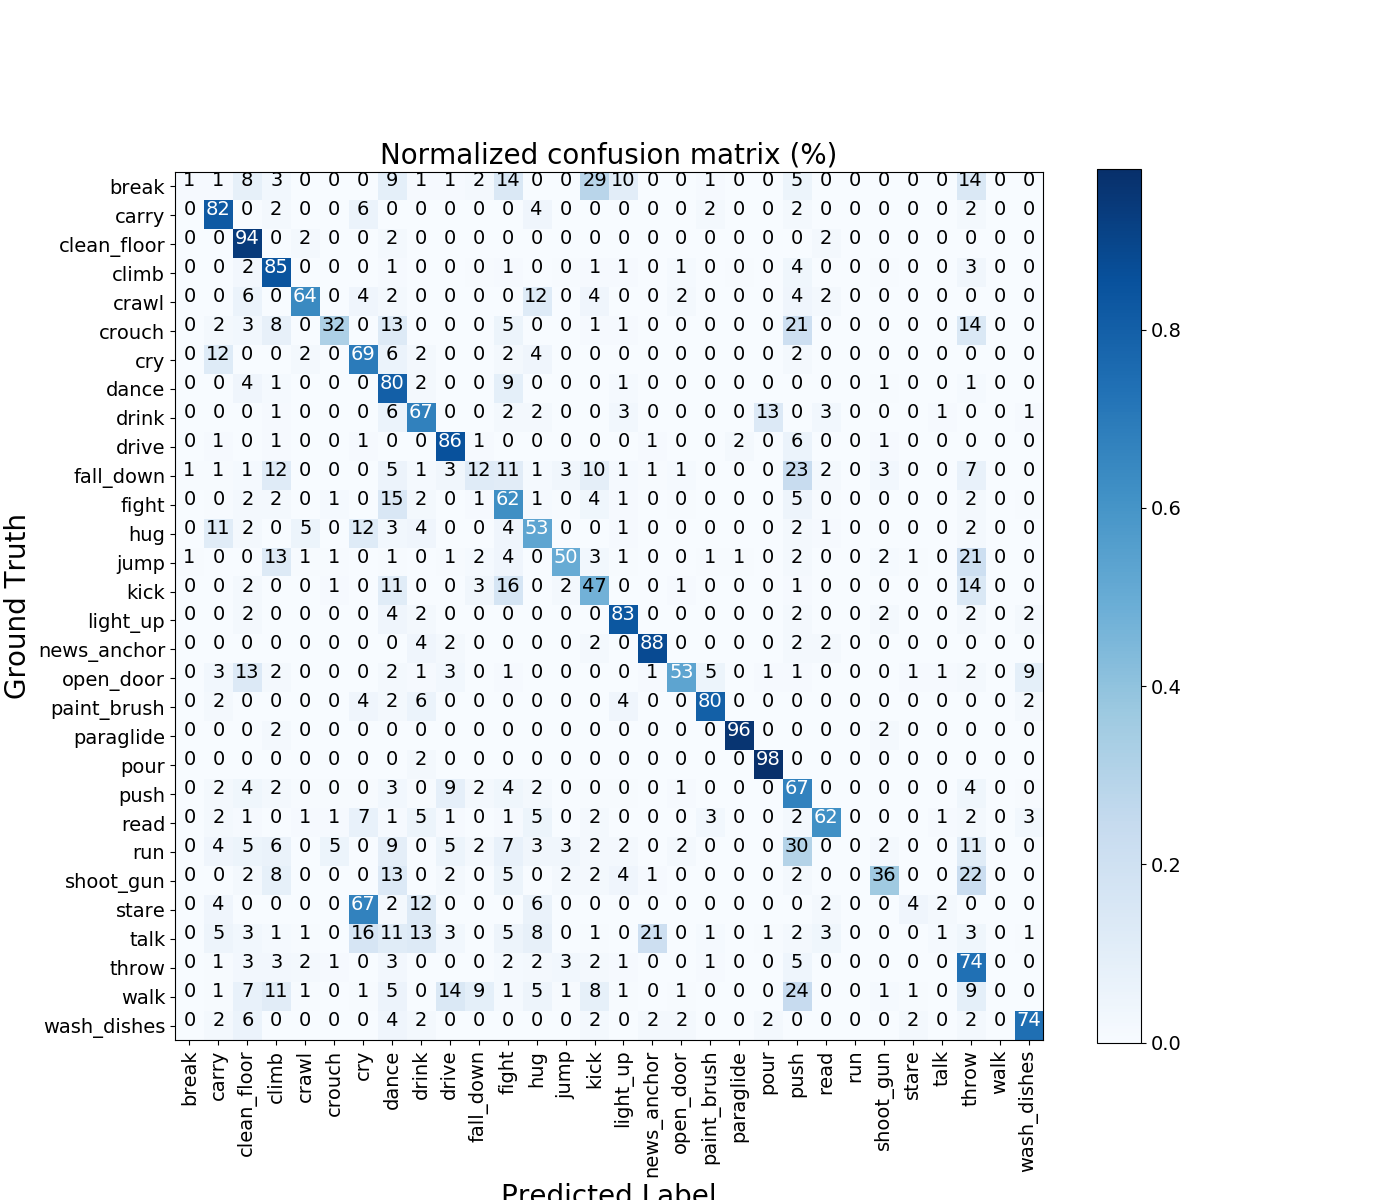
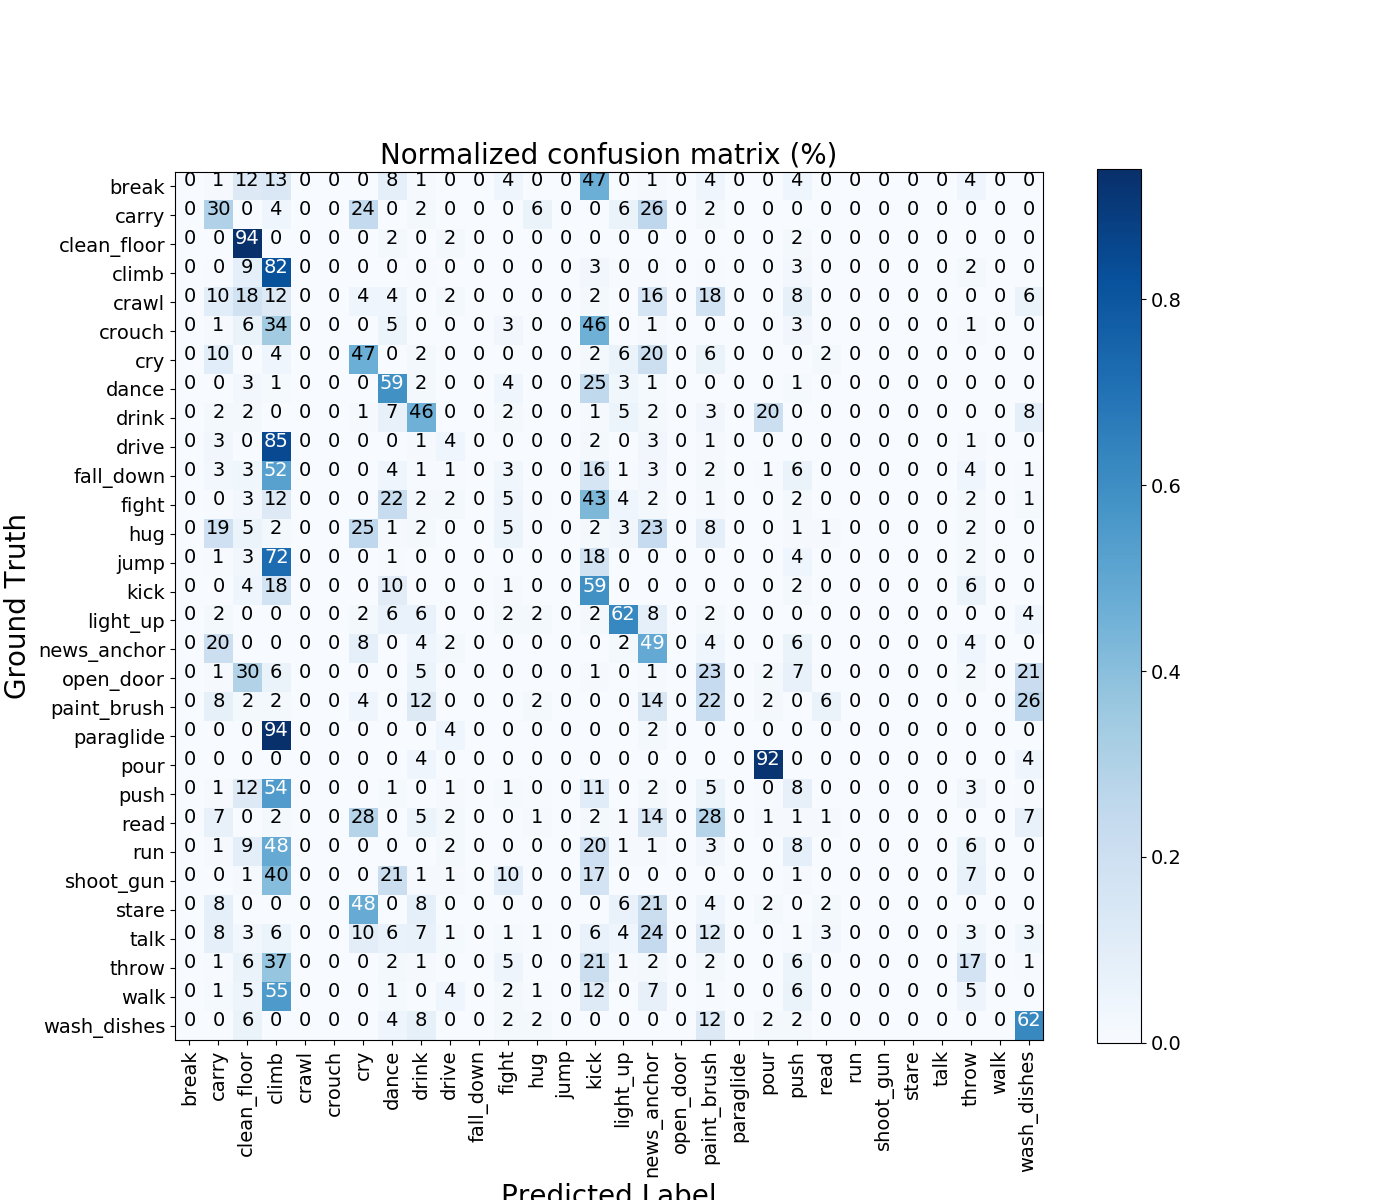
gk source only

diff --git a/main_G.py b/main_G.py
@@ -502,7 +502,7 @@ def train(num_class, source_loader, target_loader, model, criterion, criterion_d
 			label = torch.cat((label, label_target))
 
 		loss_classification = criterion(out, label)
-		loss_classification += 0.50 * criterion(feat_source[-1].view(-1, num_class), source_label_frame)
+		# loss_classification += 0.50 * criterion(feat_source[-1].view(-1, num_class), source_label_frame)
 
 		if args.ens_DA == 'MCD' and args.use_target != 'none':
 			for expert in range(args.num_experts):
@@ -602,7 +602,7 @@ def train(num_class, source_loader, target_loader, model, criterion, criterion_d
 		# 1. entropy loss for target data
 		if args.add_loss_DA == 'target_entropy' and args.use_target != 'none':
 			loss_entropy = cross_entropy_soft(out_target)
-			loss_entropy += 0.5 * cross_entropy_soft(feat_target[-1])
+			# loss_entropy += 0.5 * cross_entropy_soft(feat_target[-1])
 			losses_e.update(loss_entropy.item(), out_target.size(0))
 			loss += gamma * loss_entropy
 

diff --git a/main.py b/main.py
@@ -578,7 +578,7 @@ def train(num_class, source_loader, target_loader, model, criterion, criterion_d
 					loss_adversarial_single = criterion_domain(pred_domain, domain_label)
 
 					loss_adversarial += loss_adversarial_single
-			loss_adversarial = loss_adversarial
+			loss_adversarial = loss_adversarial * 4.0
 			losses_a.update(loss_adversarial.item(), pred_domain.size(0))
 			loss += loss_adversarial
 
